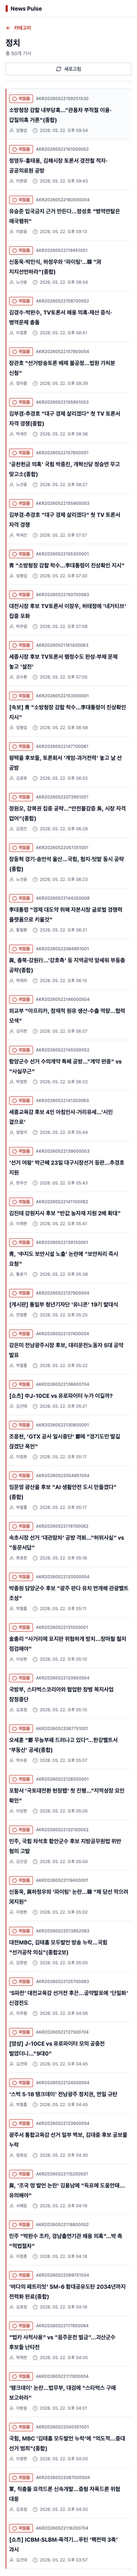
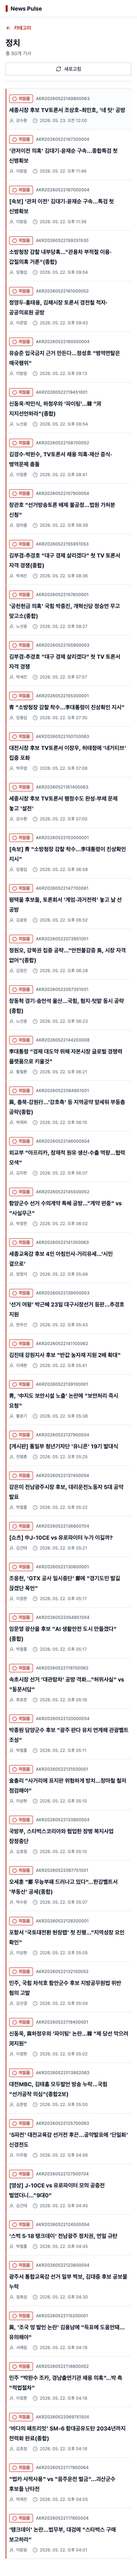
test: UI 개선 후 최종 QA 산출물 갱신

diff --git a/new-pulse-docs/harness/progress-log.md b/new-pulse-docs/harness/progress-log.md
@@ -412,3 +412,102 @@ PM 판단:
 
 - 기능, 통합, Docker, Playwright, Chrome QA 기준 제출 가능한 green 상태다.
 - 다음 작업은 공개 저장소 문서 수위 최종 점검, UI 개선 여부 결정, `main` 병합 준비다.
+
+## 2026-05-23 UI polish 이후 최종 QA
+
+세션:
+
+- frontend
+- test-qa
+
+전제:
+
+- frontend UI polish 커밋 `0d6dc16 style: 뉴스 서비스형 UI 정리` 이후 최신 `feature/m1-m8-implementation` 기준 검증
+- QA 기준 URL은 Docker compose `http://localhost:3000`
+
+브랜치 확인:
+
+- `git pull origin feature/m1-m8-implementation`: `Already up to date`
+- `git status --short --branch`: `feature/m1-m8-implementation...origin/feature/m1-m8-implementation`
+
+자동 테스트:
+
+- Backend `./mvnw test`: 통과, 16 tests
+- Backend `./mvnw -q -DskipTests package`: 통과
+- Frontend `npm test`: 통과, 16 tests
+- Frontend `npm run build`: 통과
+- Frontend `npx playwright test`: 통과, 2 tests
+- RSS collect 이후 README용 기본 스크린샷 동기화를 위해 Playwright를 재실행했고 2 tests 모두 통과
+
+Docker local QA:
+
+```bash
+docker compose -f docker-compose.local.yml -p news-pulse up -d --build
+# 성공
+```
+
+- `news-pulse-frontend-local`: `healthy`
+- `news-pulse-backend-local`: `healthy`
+- `http://localhost:3000/healthz`: `ok`
+- `http://localhost:3000/api/health`: `UP`
+- `http://localhost:8080/api/health`: `UP`
+- `http://localhost:3000/`: `200 OK`
+
+데이터 검증:
+
+- RSS collect: feed 5, 신규 3, duplicate skip 557, failed feed 0
+- Push dispatch: target 19,815, success 9,794, fail 10,021, DND skip 9,448, duplicate skip 4,297
+- SQLite `PRAGMA integrity_check`: `ok`
+- SQLite count:
+  - `articles`: 463
+  - `article_categories`: 565
+  - `users`: 100
+  - `user_preferences`: 300
+  - `push_histories`: 19,815
+  - `article_read_states`: 25
+  - duplicate push pair: 0
+- Push history status count:
+  - `success`: 9,794
+  - `fail`: 10,021
+- Category count:
+  - `POLITICS`: 123
+  - `NORTH_KOREA`: 80
+  - `ECONOMY`: 120
+  - `INDUSTRY`: 120
+  - `SOCIETY`: 122
+- CSV export 검증: `/tmp/news-pulse-ui-polish-export`에 `articles.csv`, `article_categories.csv`, `push_histories.csv`, `export-summary.csv`, `news-pulse-qa.sqlite` 생성 성공
+- 저장소의 기존 제출용 CSV/DB deliverable은 UI polish 영향 범위가 아니므로 덮어쓰지 않음
+
+Browser QA:
+
+- Playwright E2E: 카테고리 -> 목록 -> 상세 -> 읽음 반영 통과
+- Playwright mobile viewport: 가로 넘침/텍스트 겹침 없음
+- Chrome 직접 QA: `http://localhost:3000` 기준 카테고리 5개, 목록 row UI, 미읽음 표시, 상세 진입, `연합뉴스 원문 보기` 새 탭, 목록 복귀 후 읽음 반영 통과
+- Chrome console error: 0건
+
+스크린샷:
+
+- README용 스크린샷 최신화:
+  - `screenshots/category-overview.png`
+  - `screenshots/article-list-read-state.png`
+  - `screenshots/article-detail.png`
+  - `screenshots/mobile-category-overview.png`
+  - `screenshots/mobile-article-list.png`
+  - `screenshots/mobile-article-detail.png`
+- Chrome 직접 QA 보조 스크린샷 최신화:
+  - `screenshots/chrome-category-overview.png`
+  - `screenshots/chrome-article-detail.png`
+  - `screenshots/chrome-article-list-read-state.png`
+
+노출/문서 점검:
+
+- README의 스크린샷 링크가 실제 파일과 일치
+- tracked 파일 기준 원본 `.docx`, `.xlsx`, `.env`, runtime `news-pulse.sqlite` 없음
+- 스크린샷에 원본 과제 DOCX/XLSX 또는 메일 전문 노출 없음
+
+결함 판단:
+
+- API contract, 읽음 처리, 원문 새 탭 열기, Docker proxy 회귀 없음
+- backend 결함 없음
+- frontend 결함 없음
+- 문서 결함 없음
